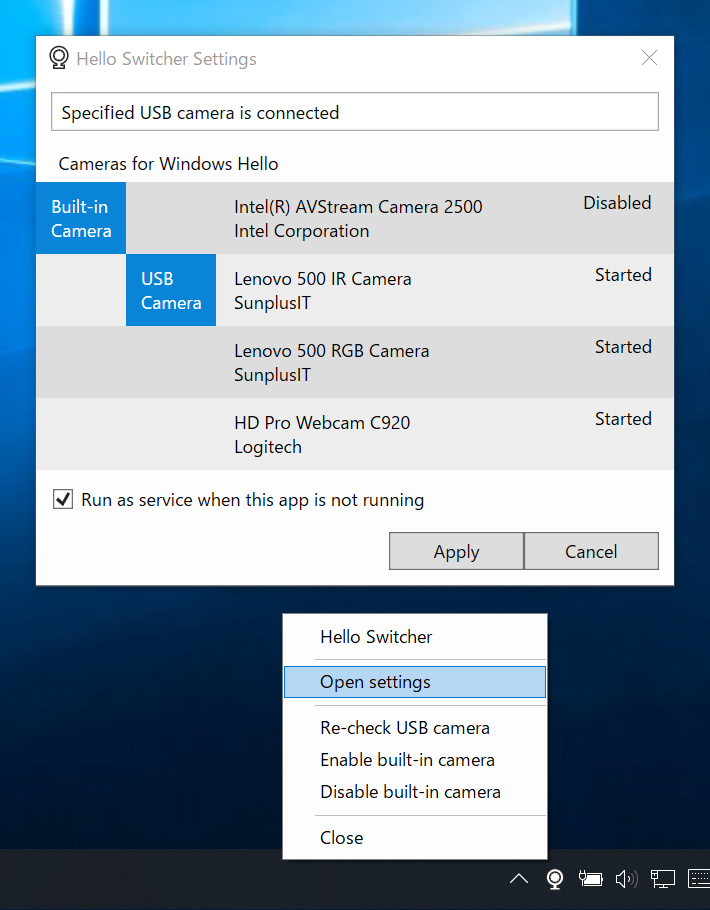
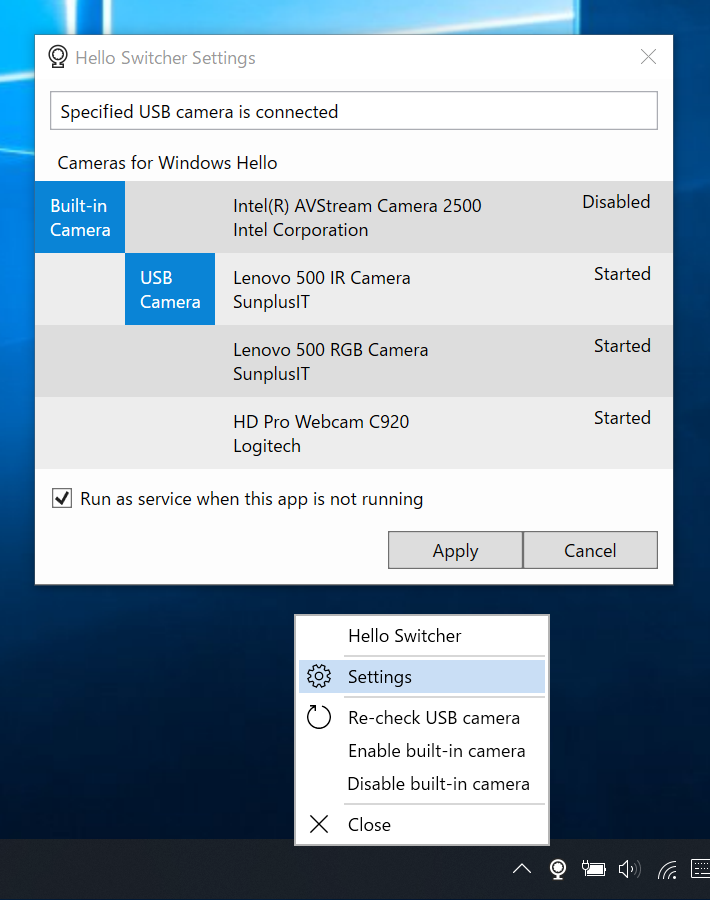
Update image and readme

diff --git a/README.md b/README.md
@@ -37,7 +37,7 @@ This tool consists of ordinary app and Windows service. The former (app) has the
 
 ## Getting started
 
-1. Run the installer. Start this app from the start menu. This app's icon will appear in the notification area. Right-click it to open the menu and select `Open settings`.
+1. Run the installer. Start this app from the start menu. This app's icon will appear in the notification area. Right-click it to open the menu and select `Settings`.
 
 2. In the settings window, specify a built-in camera for Windows Hello and a USB camera which you wish to use for Windows Hello. In addition, if you wish to run this tool in the background, check `Run as service when this app is not running`. Then click `Apply`. That’s all.
 
@@ -48,6 +48,11 @@ This tool consists of ordinary app and Windows service. The former (app) has the
     - In `Settings`, uncheck `Stop the task if it runs longer than:`.
 
 ## History
+
+Ver 1.4 2021-5-18
+
+- Change context menu
+- Fix settings window in specific cultures
 
 Ver 1.3 2021-5-4
 
